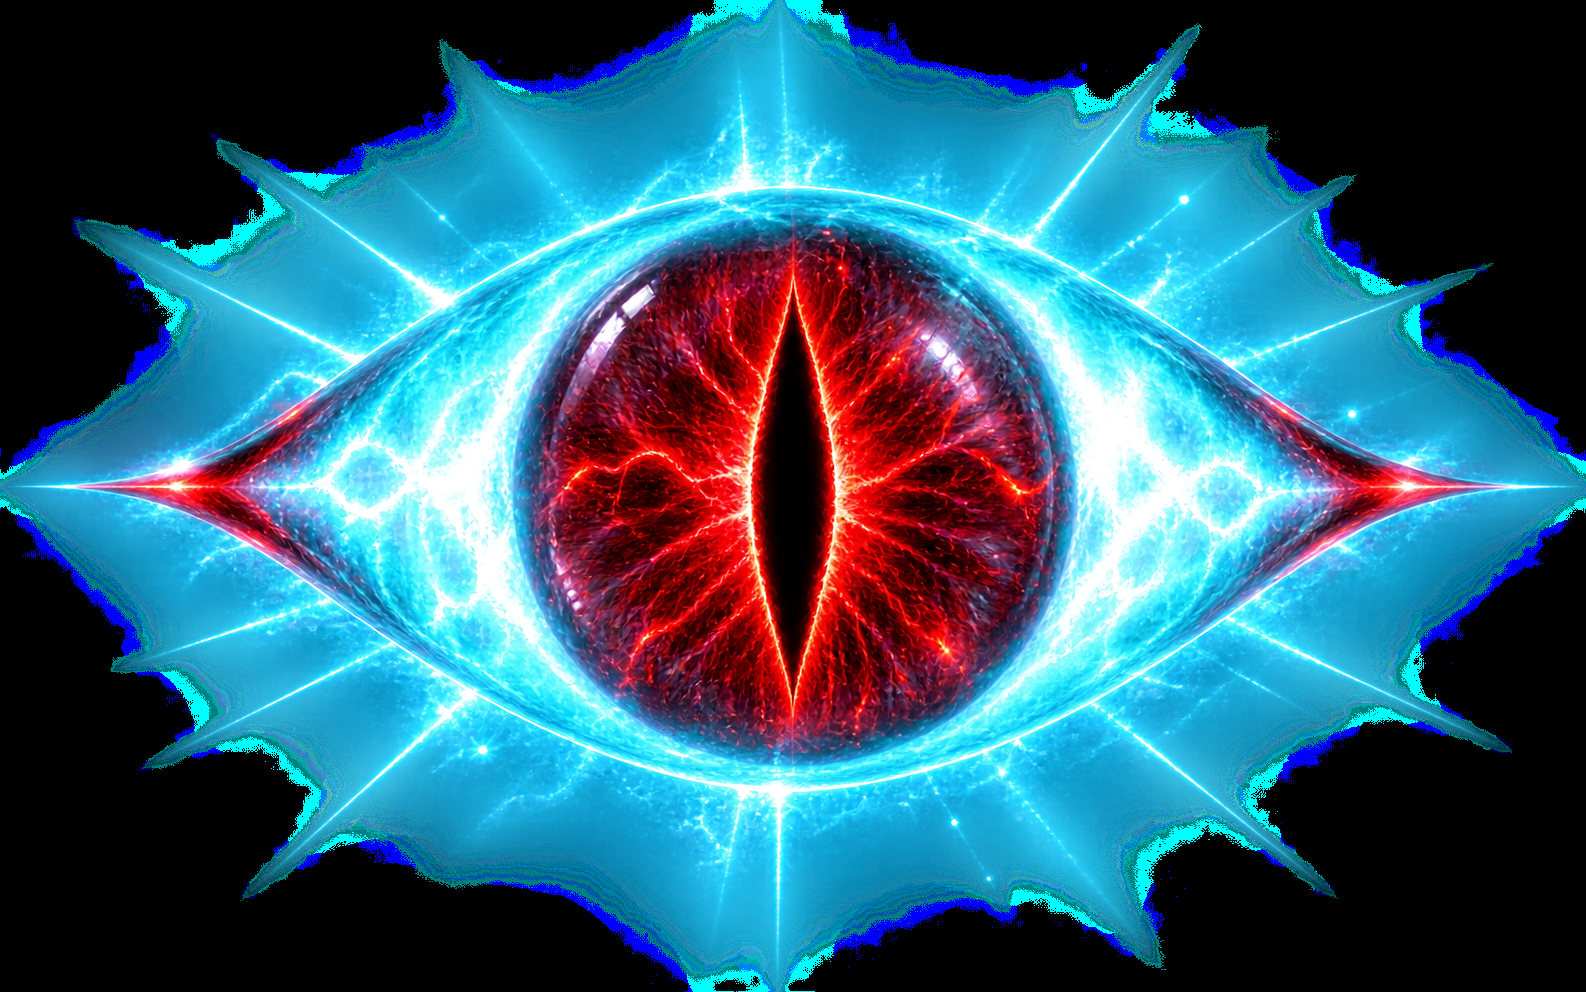
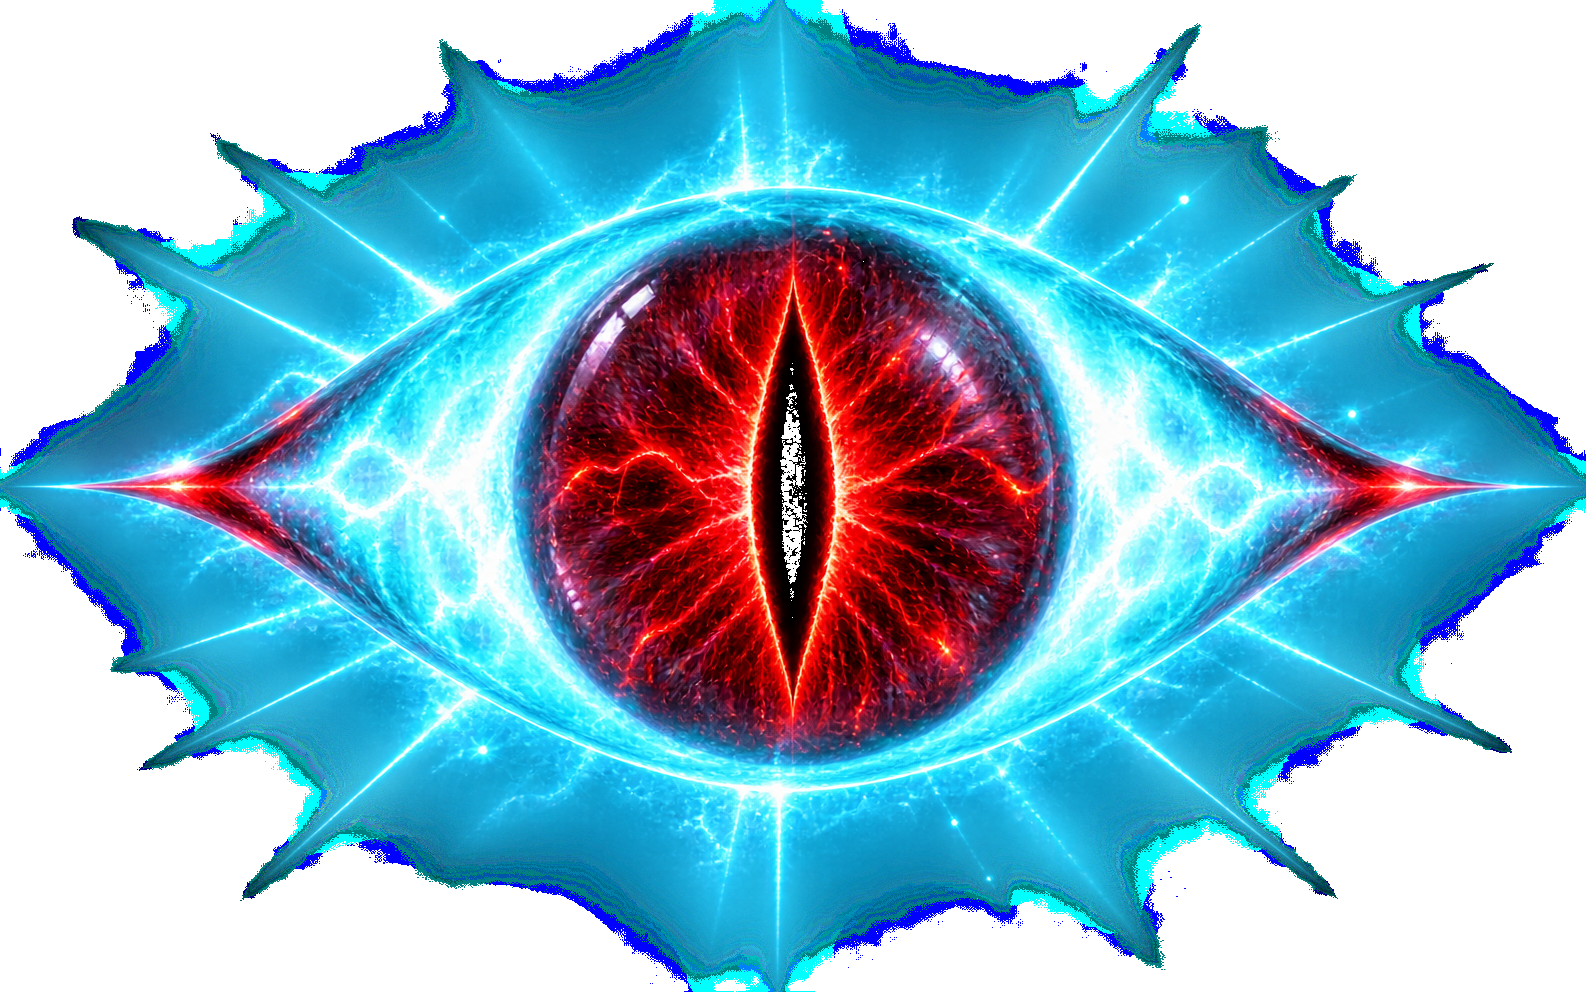
Add files via upload

diff --git a/game.js b/game.js
@@ -509,6 +509,7 @@ function partMeshFor(pal){
   upperArm:boxMesh(pal.suit), lowerArm:boxMesh(pal.skin), glove:boxMesh(pal.accent),
   upperLeg:boxMesh(pal.suit), lowerLeg:boxMesh(pal.boot),
   bladeCore:boxMesh([.85,.92,.98]), bladeEdge:boxMesh(pal.accent), bladeHilt:boxMesh([.15,.14,.16]),
+  menaceEye:boxMesh([.95,.15,.08]),
  };
  meshCache[key]=m;
  return m;
@@ -547,9 +548,13 @@ function buildBodyParts(pal,walkPhase,speedFactor,helmet,kind,attackPhase,weapon
   parts.push({mesh:pm.helmetShell, mtx:mul(mat4.translate(0,1.52+bob-hunch*.4,0),mat4.rotX(hunch*.6),mat4.scale(.30,.28,.30))});
   parts.push({mesh:pm.helmetVisor, mtx:mul(mat4.translate(0,1.51+bob-hunch*.4,.145),mat4.rotX(hunch*.6),mat4.scale(.22,.05,.05))});
  }else if(kind==="raccoglitore"){
-  // corna al posto della cresta, elmo piu' squadrato/pesante
+  // corna al posto della cresta, elmo piu' squadrato/pesante, e due occhi
+  // rossi che si vedono attraverso la visiera invece di una fessura piatta
+  // e basta — gli dà un volto minaccioso vero senza dover ridisegnare tutto.
   parts.push({mesh:pm.helmetShell, mtx:mul(mat4.translate(0,1.60+bob,0),mat4.scale(.36,.35,.35))});
   parts.push({mesh:pm.helmetVisor, mtx:mul(mat4.translate(0,1.58+bob,.165),mat4.scale(.27,.13,.05))});
+  parts.push({mesh:pm.menaceEye, mtx:mul(mat4.translate(-.10,1.585+bob,.175),mat4.scale(.045,.04,.02))});
+  parts.push({mesh:pm.menaceEye, mtx:mul(mat4.translate(.10,1.585+bob,.175),mat4.scale(.045,.04,.02))});
   parts.push({mesh:pm.horn, mtx:mul(mat4.translate(-.16,1.86+bob,0),mat4.rotZ(.35),mat4.scale(.06,.20,.06))});
   parts.push({mesh:pm.horn, mtx:mul(mat4.translate(.16,1.86+bob,0),mat4.rotZ(-.35),mat4.scale(.06,.20,.06))});
  }else{
@@ -696,6 +701,14 @@ const arenaSkyBuf=makeBuffer(bakeParts([
  ...buildSkyWall(ARENA_CX+ARENA_W/2+2,ARENA_CZ,ARENA_D+30,Math.PI/2),
  ...buildSkyWall(ARENA_CX,ARENA_CZ+ARENA_D/2+2,ARENA_W+30,0),
 ]));
+// Fondale vero (opzionale): se "arena_sky.png" e' presente nella cartella,
+// un grande pannello con l'immagine sostituisce/copre le bande di colore
+// procedurali sull'orizzonte nord (la direzione verso cui si guarda per la
+// maggior parte del combattimento, ed e' dove emerge Il Raccoglitore).
+// Se il file non c'e', drawTexturedQuad non disegna nulla — restano solo
+// le bande procedurali, nessun errore, nessun buco visivo.
+const arenaSkyTex=loadTexture("arena_sky.png");
+const ARENA_SKY_PANEL={x:ARENA_CX,y:SKY_Y0+SKY_H*.42,z:ARENA_CZ-ARENA_D/2-1.9,w:ARENA_W+28,h:SKY_H*.95};
 
 // ============================================================
 // NEMICI — scagnozzi (deboli, in gruppo) e Il Raccoglitore (piu' forte,
@@ -748,7 +761,7 @@ function colossoPunch(){
  colosso.punchT=.32;
  colosso.giantHp=Math.max(0,colosso.giantHp-18);
  player.energy=Math.min(player.energyMax,player.energy+9);
- colosso.beamBursts.push({t:0,kind:"punch"});
+ colosso.beamBursts.push({t:0,kind:"punch",ox:(Math.random()-.5)*2.2,oy:Math.random()*1.6-.2});
  sfx.giantHit();
  triggerSlowMo(.09,.08);
  if(colosso.giantHp<=0)startColossoFinish();
@@ -847,7 +860,7 @@ function updateColosso(dt){
 document.getElementById("colossoOutcomeBtn").addEventListener("click",()=>{
  colossoOutcomeEl.classList.remove("show");
  if(colosso&&colosso.phase==="lost"){
-  colosso.phase="fight";colosso.giantHp=colosso.giantHpMax*.5;colosso.playerHp=colosso.playerHpMax;colosso.attackCd=2.6;
+  colosso.phase="fight";colosso.giantHp=colosso.giantHpMax;colosso.playerHp=colosso.playerHpMax;colosso.attackCd=2.6;
  }else{
   colosso=null;missionHintEl.classList.remove("show");colossoHpWrapEl.classList.remove("show");
   archivioUnlocked=true;
@@ -964,6 +977,9 @@ const hudEl=document.getElementById("gameHud");
 const energyFillEl=document.getElementById("energyFill");
 const hpFillEl=document.getElementById("hpFill");
 const missionHintEl=document.getElementById("missionHint");
+const hudLocationEl=document.getElementById("hudLocation");
+const ZONE_LABELS={torre:"LA TORRE // SALA DI COMANDO",arena:"COSTA SUD // SPIAGGIA",colosso:"IL COLOSSO // PRIMA LINEA",archivio:"LA TORRE // ARCHIVIO"};
+let lastZoneLabel=null;
 const interactPromptEl=document.getElementById("interactPrompt");
 const dmgVignetteEl=document.getElementById("dmgVignette");
 const gameOverEl=document.getElementById("gameOver");
@@ -1137,7 +1153,7 @@ function startArchiveSequence(){
  archiveState={terminalRead:false,helmetsRead:false,revealing:false};
  enterArchivio();
  setTimeout(()=>{
-  missionHintEl.textContent="ESPLORA L'ARCHIVIO";
+  missionHintEl.textContent="ESPLORA L'ARCHIVIO — CERCA IL TERMINALE E GLI ELMI";
   missionHintEl.classList.add("show");
  },600);
 }
@@ -1310,7 +1326,7 @@ function trySpecial(){
   const f=facingDot(player.x,player.z,player.yaw,en.x,en.z);
   if(f.dist<2.6&&f.dot>.25){
    damageEnemy(en,42);
-   specialBursts.push({x:en.x,y:1.1,z:en.z,t:0});
+   specialBursts.push({x:en.x+(Math.random()-.5)*.5,y:.8+Math.random()*.7,z:en.z+(Math.random()-.5)*.5,t:0});
    hitAny=true;
   }
  }
@@ -1453,6 +1469,7 @@ function frame(now){
  updateTransformation(dt);
  const inputLocked=!!transformState||!gameStarted||dialogueActive||gameOverActive||zone==="colosso"||(colosso&&colosso.phase==="converge")||choiceScreenEl.classList.contains("show")||endingScreenEl.classList.contains("show")||!!emergeCutscene;
  if(gameStarted)energyFillEl.style.width=(74+Math.sin(now/900)*4)+"%";
+ if(zone!==lastZoneLabel){ lastZoneLabel=zone; hudLocationEl.textContent=ZONE_LABELS[zone]||""; }
 
  // rotazione del personaggio (A/D) — indipendente dal movimento, niente
  // piu' ricalcolo dello yaw dal vettore di spostamento: quel ricalcolo
@@ -1650,6 +1667,7 @@ function frame(now){
   drawBuffer(ticBuf,ticModel,vp);
  }else if(zone==="arena"){
   drawBuffer(arenaSkyBuf,mat4.identity(),vp);
+  drawTexturedQuad(arenaSkyTex, mul(mat4.translate(ARENA_SKY_PANEL.x,ARENA_SKY_PANEL.y,ARENA_SKY_PANEL.z),mat4.scale(ARENA_SKY_PANEL.w,ARENA_SKY_PANEL.h,1)), vp, 1);
   drawBuffer(arenaFloorBuf,mat4.identity(),vp);
   drawBuffer(arenaSeaBuf,mat4.identity(),vp);
   drawBuffer(arenaPropBuf,mat4.identity(),vp);
@@ -1678,6 +1696,7 @@ function frame(now){
   }
  }else if(zone==="colosso"&&colosso){
   drawBuffer(arenaSkyBuf,mat4.identity(),vp);
+  drawTexturedQuad(arenaSkyTex, mul(mat4.translate(ARENA_SKY_PANEL.x,ARENA_SKY_PANEL.y,ARENA_SKY_PANEL.z),mat4.scale(ARENA_SKY_PANEL.w,ARENA_SKY_PANEL.h,1)), vp, 1);
   drawBuffer(arenaFloorBuf,mat4.identity(),vp);
   drawBuffer(arenaSeaBuf,mat4.identity(),vp);
   // Il Raccoglitore gigante, sempre rivolto verso la telecamera (verso il
@@ -1696,7 +1715,7 @@ function frame(now){
    for(const b of colosso.beamBursts){
     if(b.kind==="punch"){
      const p=b.t/.4, sc=.4+p*2.2, a=Math.max(0,1-p);
-     drawBuffer(burstBuf, mul(mat4.translate(ARENA_CX,COLOSSO_EYE_Y-1.5,COLOSSO_GIANT_Z+4),mat4.scale(sc,sc,sc)), vp, a*.9);
+     drawBuffer(burstBuf, mul(mat4.translate(ARENA_CX+(b.ox||0),COLOSSO_EYE_Y-1.5+(b.oy||0),COLOSSO_GIANT_Z+4),mat4.scale(sc,sc,sc)), vp, a*.9);
     }else{
      const p=b.t/.4, a=Math.max(0,1-p);
      const beamLen=(COLOSSO_CAM_Z-COLOSSO_GIANT_Z)/2;

diff --git a/index.html b/index.html
@@ -176,7 +176,7 @@ i browser bloccano le texture WebGL cosi'. Apri un terminale nella cartella del 
 <div id="interactPrompt">SPAZIO — LEGGI</div>
 <div id="gameHud">
   <div id="energyTrack"><div id="energyFill"></div></div>
-  <div id="hudText">RANGER ZERO<div class="small">LA TORRE // SALA DI COMANDO</div></div>
+  <div id="hudText">RANGER ZERO<div id="hudLocation" class="small">LA TORRE // SALA DI COMANDO</div></div>
 </div>
 <div id="hpBar"><div id="hpLabel">HP</div><div id="hpTrack"><div id="hpFill"></div></div></div>
 <div id="missionHint">MISSIONE</div>

diff --git a/README.md b/README.md
@@ -267,6 +267,48 @@ Questa versione (v12) aggiunge, rispetto a quanto descritto sopra:
 - Verificato col test che aveva scoperto il bug: prima 20 pugni sul Colosso registravano
   90 danni su 360 possibili, ora 342 su 360.
 
+## Aggiornamento v20 — feedback da playtest vero
+- **Bug corretto**: `oculo_eye.png` aveva perso la trasparenza da qualche parte lungo il
+  percorso (angoli tornati neri opachi invece che trasparenti) — si vedeva un alone nero
+  intorno all'occhio. Rifatto il processo di trasparenza con soglia basata su
+  luminosità+saturazione (per non toccare l'iride rossa scura, che è scura ma satura).
+- **Punto di impatto dei pugni sul Colosso randomizzato**: prima ogni pugno mostrava lo
+  scoppio sempre nello stesso punto fisso (vicino alla cintura, dava l'idea sbagliata) —
+  ora l'offset (`b.ox`, `b.oy` su `colosso.beamBursts`) è casuale ad ogni colpo, sparso sul
+  torso. Stessa cosa per l'attacco speciale in scala normale (`specialBursts`).
+- **Il Raccoglitore ha un volto vero**: due occhi rossi (`menaceEye`) visibili attraverso
+  la visiera invece di una fessura piatta e basta.
+- **Sconfitta sul Colosso ora costa davvero**: prima, perdendo, si ripartiva con il gigante
+  già al 50% di vita (troppo comodo). Ora riparte a vita piena — la sconfitta è una vera
+  battuta d'arresto, non un continue gratis.
+- **Archivio più chiaro**: il testo guida ora dice esplicitamente "CERCA IL TERMINALE E GLI
+  ELMI" invece del generico "ESPLORA L'ARCHIVIO".
+
+## Sul ritmo generale (osservazione dell'utente: "mi sembra tutto un po' veloce")
+Osservazione corretta e già nota — resta il limite più vero di questa versione. La
+struttura narrativa regge (l'ho verificato a fondo nell'audit precedente), ma i singoli
+segmenti sono brevi: il combattimento in spiaggia dura pochi minuti, l'Archivio si esplora
+in meno di un minuto. Non è stato ancora risolto in questa sessione — le strade possibili
+sono: più scagnozzi/ondate prima de Il Raccoglitore, più tappe nell'Archivio, o accettare
+che il capitolo resti breve per design (coerente con "20-30 minuti a capitolo" della
+pre-produzione originale) e concentrare gli sforzi altrove.
+
+## Aggiornamento v21 — etichetta posizione HUD corretta + gancio per fondali immagine
+- **Bug corretto**: l'etichetta di posizione nell'HUD (sotto "RANGER ZERO") era scritta a
+  fuoco fisso nell'HTML — diceva sempre "LA TORRE // SALA DI COMANDO" anche in spiaggia o
+  al game over. Ora ha un id dedicato (`#hudLocation`) e si aggiorna ogni frame in base alla
+  zona reale (`ZONE_LABELS`, controllato solo quando la zona cambia per non toccare il DOM
+  inutilmente). Verificato anche nella schermata di game over.
+- **Gancio pronto per un fondale immagine in spiaggia**: `arena_sky.png`, se presente nella
+  cartella, sostituisce/copre le bande di colore procedurali sulla parete nord (la
+  direzione principale di vista durante il combattimento, dove emerge Il Raccoglitore).
+  Stesso meccanismo usato per `oculo_eye.png` — se il file non c'e', non si disegna niente,
+  nessun errore, nessun buco visivo. Vedi `ARENA_SKY_PANEL` in game.js per posizione/
+  dimensioni del pannello (larghezza ARENA_W+28, altezza quasi tutto SKY_H).
+  **Nota per chi riprende**: se si vuole aggiungere anche un fondale per la Torre o il
+  Colosso, replicare lo stesso pattern (`loadTexture` + `drawTexturedQuad` posizionato su
+  una parete) invece di inventare un sistema nuovo.
+
 ## Cosa manca ancora
 1. Musica/ambiente di sottofondo (solo SFX puntuali per ora).
 2. Bilanciamento vero del combattimento (numeri di danno/HP scelti a naso).
